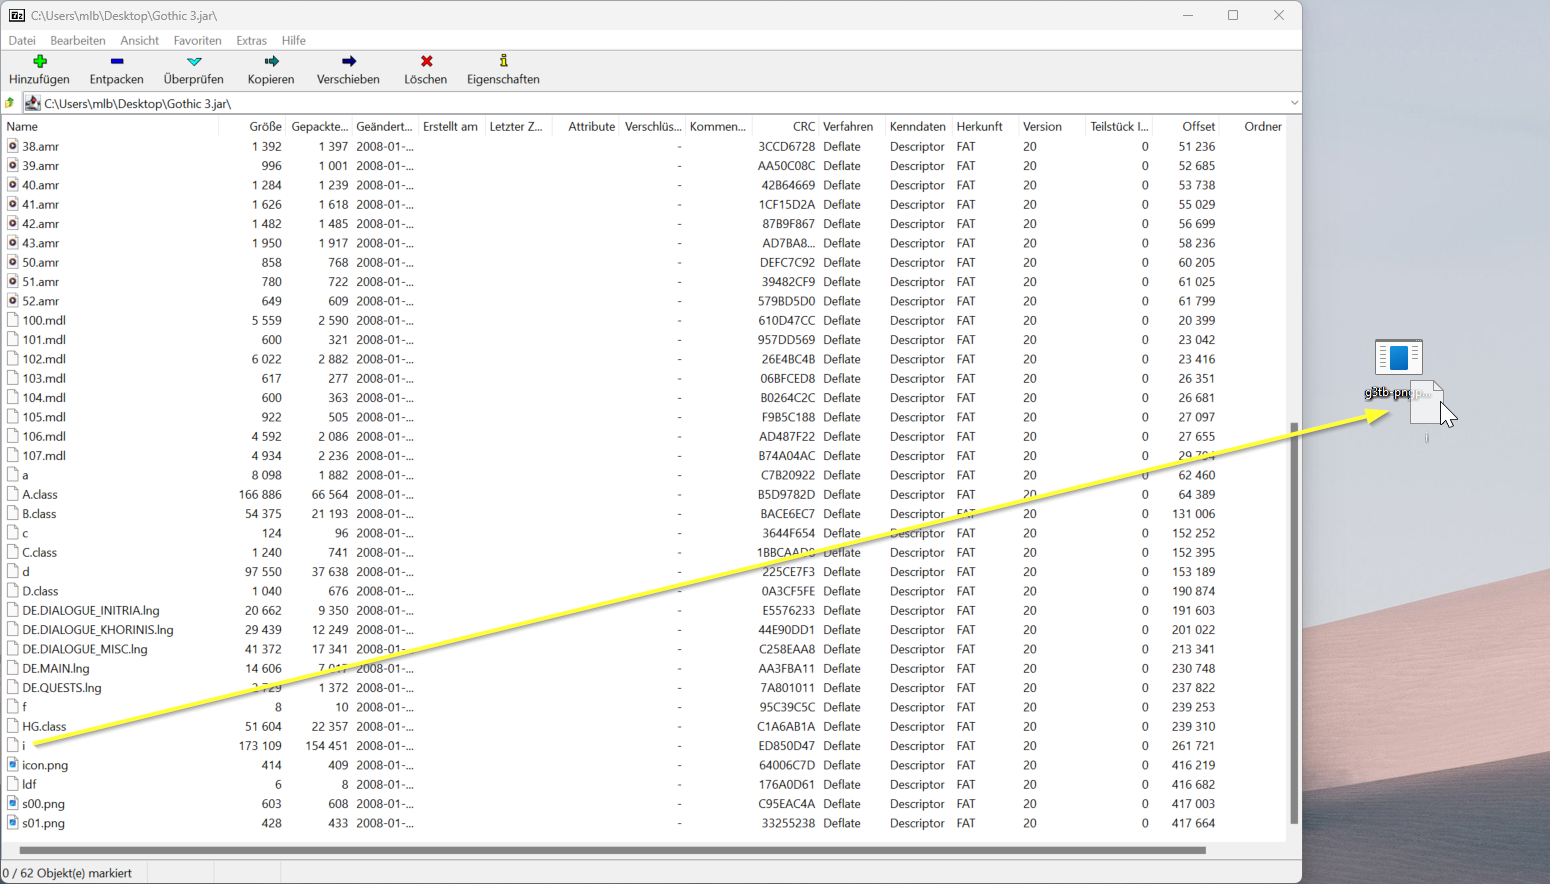
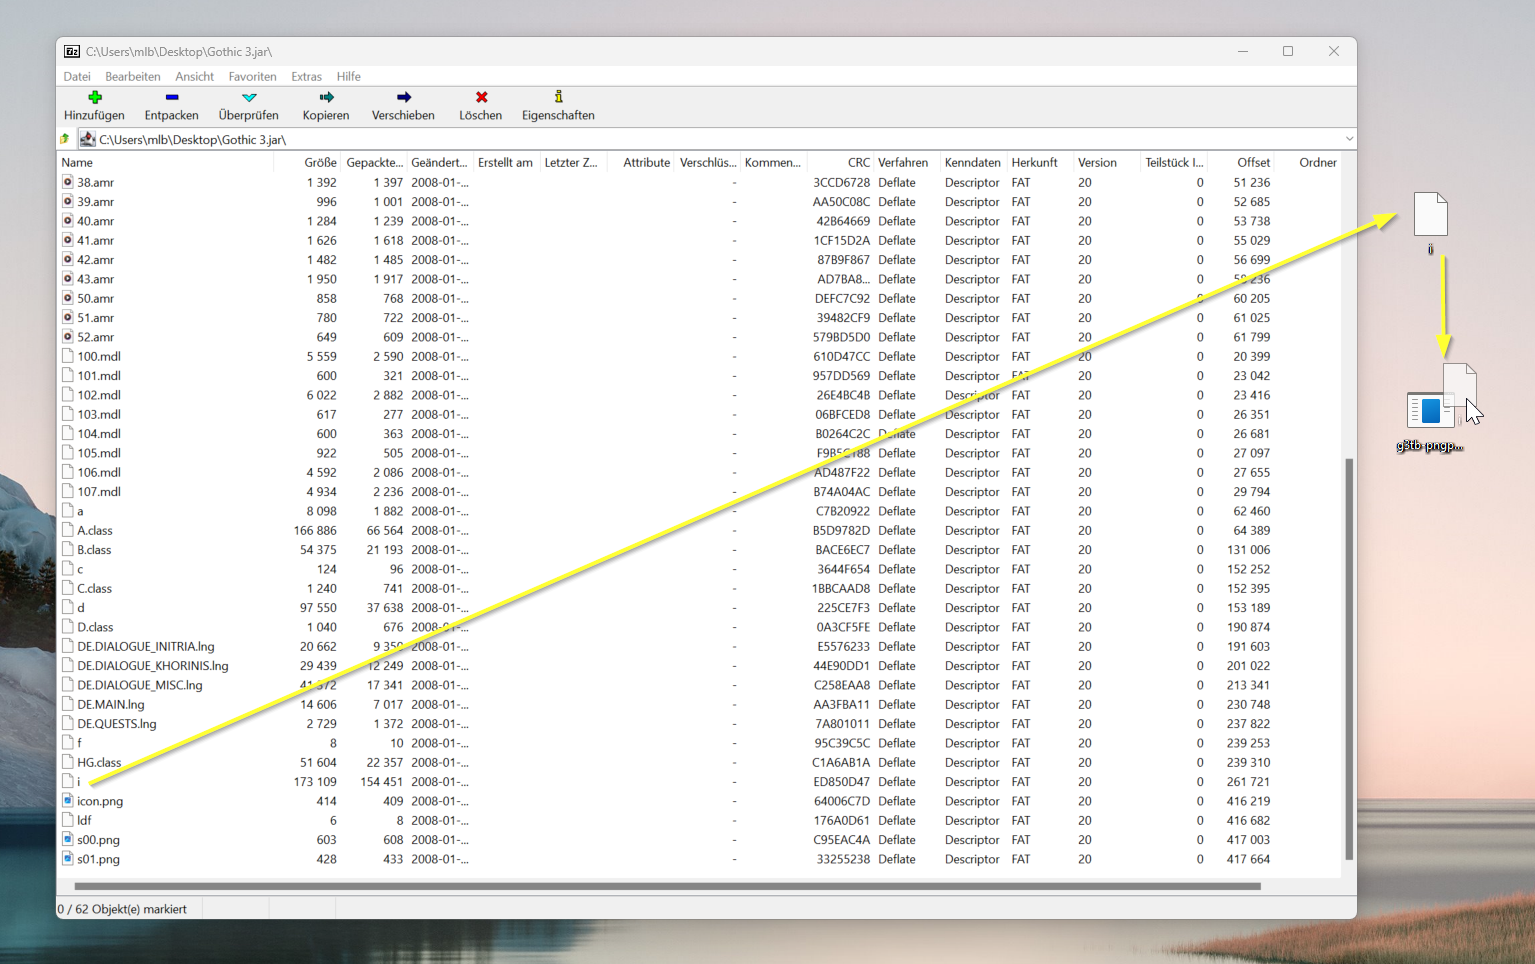
update readme

diff --git a/README.md b/README.md
@@ -18,7 +18,8 @@ You can edit the extracted images and pack them back into the file
 
 ![](readme/screenshot_03.png)
 
-- drag&drop the `i` file onto the G3TB-PngPacker executable
+- drag&drop the `i` file out of the jar archive
+- and then drag&drop the `i` file onto the G3TB-PngPacker executable
 
 ![](readme/screenshot_04.png)
 
